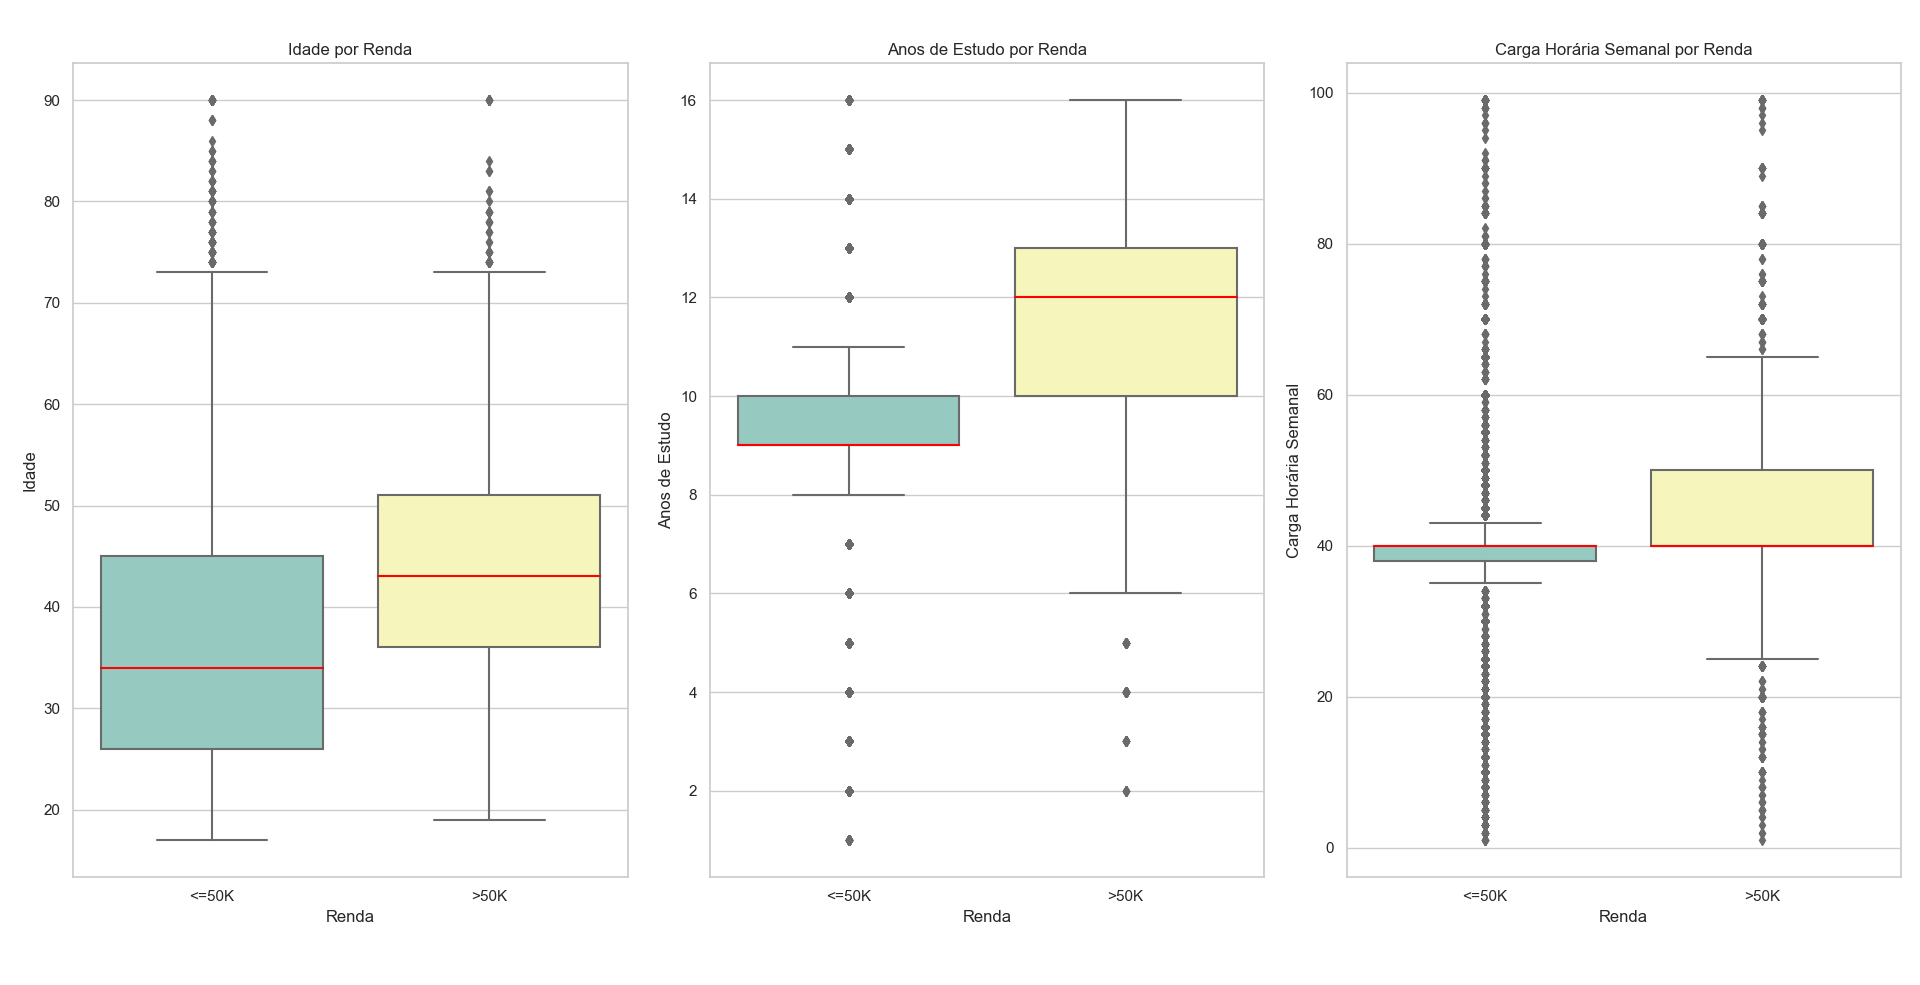
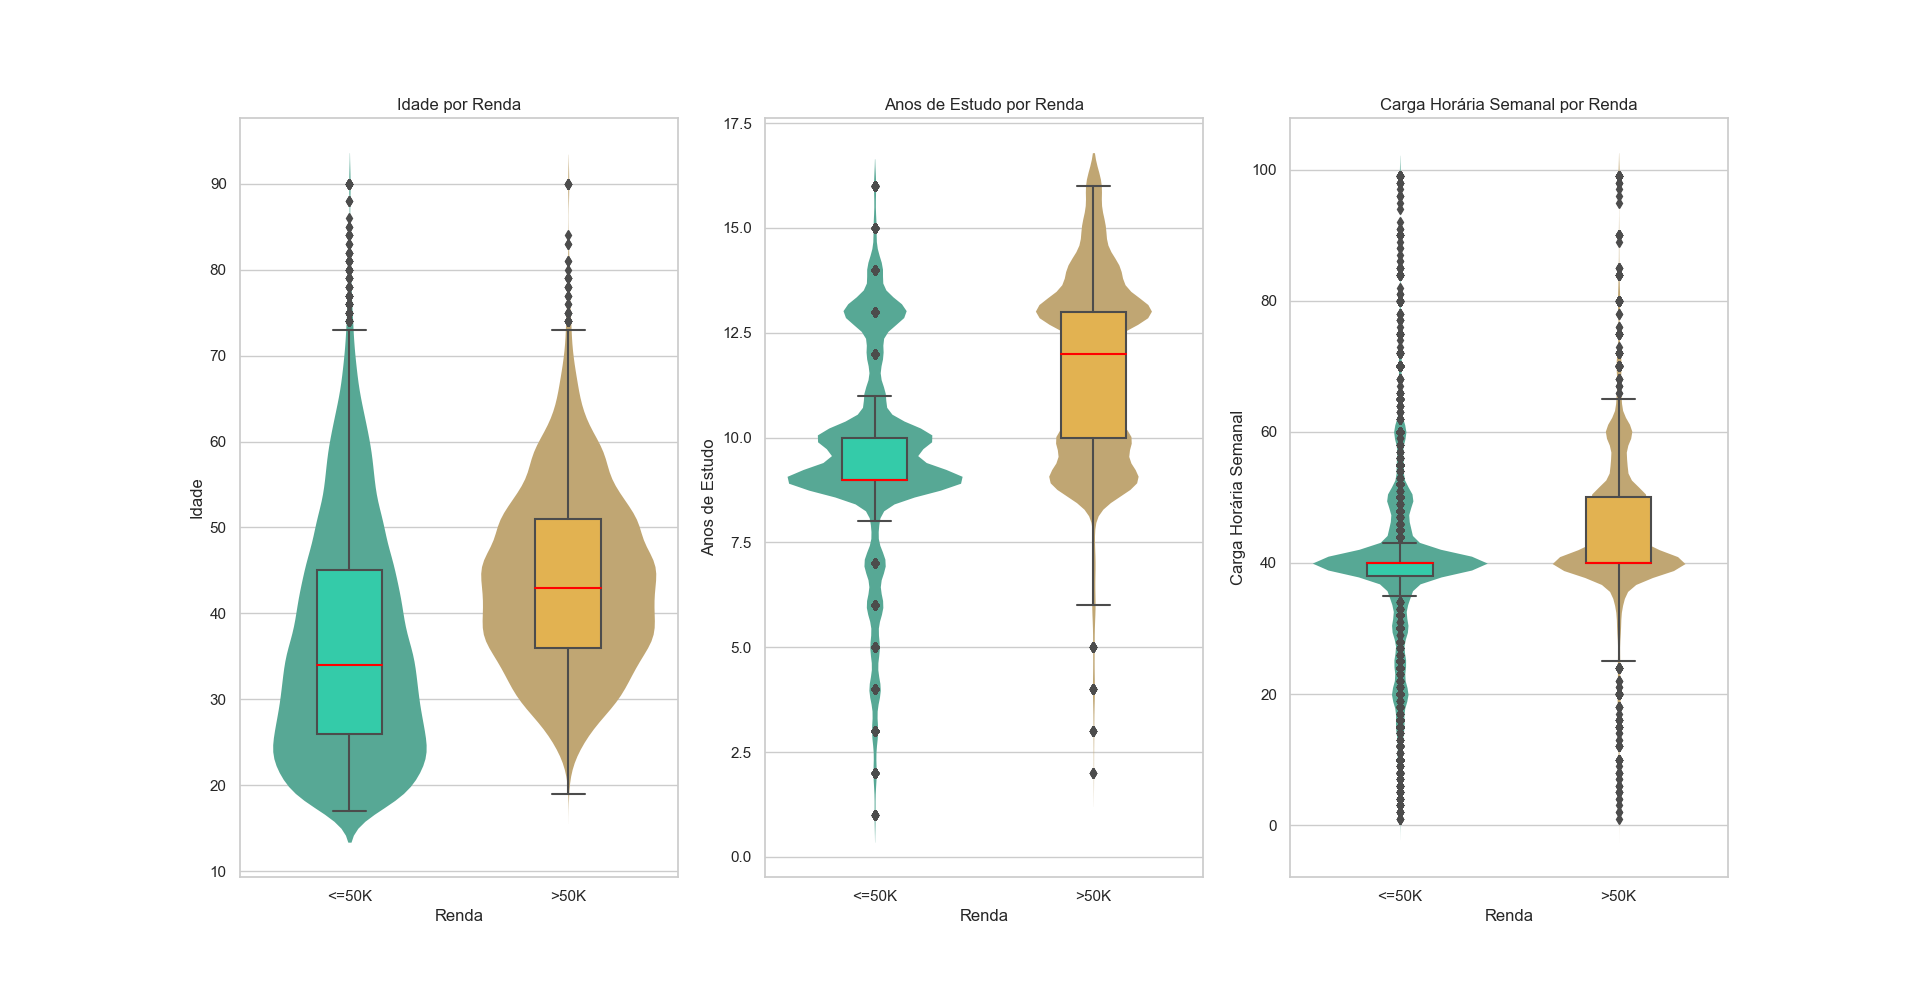
fix-up

diff --git a/box_plot.py b/box_plot.py
@@ -14,17 +14,28 @@ fig, axes = plt.subplots(nrows=1, ncols=3, figsize=(18, 6))
 variaveis_quantitativas = ['Idade', 'Anos de Estudo', 'Carga Horária Semanal']
 
 for i, variavel in enumerate(variaveis_quantitativas):
+    sns.violinplot(
+        data=adult, 
+        x='Sexo',
+        y=variavel,
+        palette='turbo',
+        inner=None,
+        linewidth=0,
+        saturation=0.4,
+        ax=axes[i],
+    )
     sns.boxplot(
         x='Sexo',
         y=variavel,
         data=adult,
-        ax=axes[i],
-        palette='Set3',
+        palette='turbo',
+        width=0.3,
+        boxprops={'zorder': 2},
         medianprops={'color': 'red'},
+        ax=axes[i]
     )
     axes[i].set_xlabel('Sexo')
     axes[i].set_ylabel(variavel)
     axes[i].set_title(variavel + ' por Sexo')
 
-plt.tight_layout()
 plt.show()
